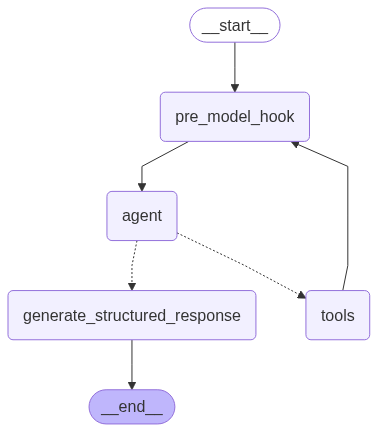
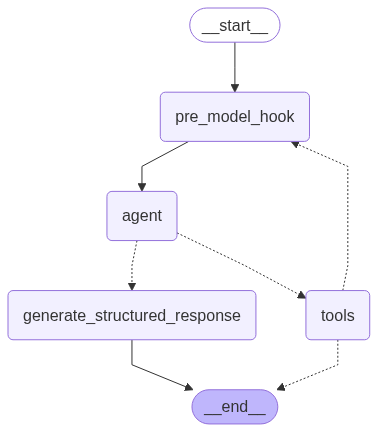
wip

Changed region(s): [[0.2328, 0.8426, 0.7566, 0.9931], [0.873, 0.8125, 0.9021, 0.8426]]

diff --git a/apps/cli-client/photos_drive/cli/commands/llms/trial_4.py b/apps/cli-client/photos_drive/cli/commands/llms/trial_4.py
@@ -1,3 +1,11 @@
+from photos_drive.cli.commands.llms.tools.find_similar_photos import (
+    FindSimilarPhotosInput,
+    FindSimilarPhotosTool,
+)
+from photos_drive.cli.commands.llms.tools.search_photos_by_text import (
+    SearchPhotosByTextToolInput,
+    SearchPhotosByTextTool,
+)
 from photos_drive.shared.config.config import Config
 from photos_drive.shared.llm.vector_stores.distributed_vector_store import (
     DistributedVectorStore,
@@ -11,7 +19,6 @@ from photos_drive.shared.metadata.mongodb.clients_repository_impl import (
 from photos_drive.shared.metadata.mongodb.media_items_repository_impl import (
     MediaItemsRepositoryImpl,
 )
-import json
 from langchain.agents import Tool
 from langchain_google_genai import ChatGoogleGenerativeAI
 from pydantic import BaseModel, Field
@@ -32,7 +39,7 @@ class ResponseFormatter(BaseModel):
 
     output: str = Field(description="The answer to the user's question")
     image_paths: list[str] = Field(
-        description="A list of file paths of images to display to the user"
+        description="A list of media item IDs in the form clientId:objectId to display to the user"
     )
 
 
@@ -52,42 +59,27 @@ def trial_4(config: Config):
         ]
     )
 
-    def search_photos_by_text_with_reranking(query: str, top_k=5):
-        print('search_photos_by_text_with_reranking:', query)
-        embedding = image_embedder.embed_texts([query])[0]
-        embeddings = vector_store.get_relevent_media_item_embeddings(embedding, k=top_k)
-        media_items = [
-            str(media_items_repo.get_media_item_by_id(embedding.media_item_id))
-            for embedding in embeddings
-        ]
-        print('results_data:', media_items)
-
-        return json.dumps(media_items)
-
-    def find_path_by_caption_snippet(caption: str) -> str:
-        print('find_path_by_caption_snippet:', caption)
-        embedding = image_embedder.embed_texts([caption])[0]
-        embeddings = vector_store.get_relevent_media_item_embeddings(embedding, k=1)
-        media_item = media_items_repo.get_media_item_by_id(embeddings[0].media_item_id)
-        print('results_data:', media_item)
-
-        return json.dumps(str(media_item))
+    search_by_text_tool = SearchPhotosByTextTool(
+        image_embedder, vector_store, media_items_repo
+    )
+    find_similar_photos_tool = FindSimilarPhotosTool(
+        image_embedder, vector_store, media_items_repo
+    )
 
     tools = [
         Tool(
             name="SearchPhotosByText",
-            func=search_photos_by_text_with_reranking,
-            description="Search for photos matching a natural language text query. "
-            + "Input: a text string describing what to find (e.g., "
-            + "'sunset in Santorini'). Returns a list of matching images with captions "
-            + "and file paths.",
+            func=search_by_text_tool.search_photos_by_text,
+            description=search_by_text_tool.get_prompt(),
+            args_schema=SearchPhotosByTextToolInput,
+            return_direct=True,
         ),
         Tool(
-            name="FindImageFilePathFromCaption",
-            func=find_path_by_caption_snippet,
-            description="Given a short description or snippet from a photo caption, "
-            + "returns the exact file path of the matching image. Useful for resolving "
-            + "vague references like 'pine tree photo' to a file path.",
+            name="FindSimilarPhotos",
+            func=find_similar_photos_tool.find_similar_photos,
+            description=find_similar_photos_tool.get_prompt(),
+            args_schema=FindSimilarPhotosInput,
+            return_direct=True,
         ),
     ]
 

diff --git a/apps/cli-client/photos_drive/cli/commands/llms/tools/media_item.py b/apps/cli-client/photos_drive/cli/commands/llms/tools/media_item.py
@@ -1,0 +1,75 @@
+from datetime import datetime
+from typing import Optional
+from photos_drive.shared.metadata import album_id
+from photos_drive.shared.metadata.media_item_id import media_item_id_to_string
+from photos_drive.shared.metadata.media_items import GpsLocation, MediaItem
+from pydantic import BaseModel, Field
+
+
+class GpsLocationModel(BaseModel):
+    '''Represents a Gps location for LLM model'''
+
+    latitude: float = Field(..., description="Latitude in degrees")
+    longitude: float = Field(..., description="Longitude in degrees")
+
+    class Config:
+        schema_extra = {"example": {"latitude": 37.7749, "longitude": -122.4194}}
+
+
+class MediaItemModel(BaseModel):
+    '''Represents a media item for LLM model'''
+
+    id: str = Field(..., description="ID of this media item")
+    file_name: str = Field(..., description="File name of the media item")
+    location: Optional[GpsLocationModel] = Field(
+        None, description="GPS location if available"
+    )
+    gphotos_client_id: str = Field(..., description="Google Photos client ID")
+    gphotos_media_item_id: str = Field(..., description="Google Photos media item ID")
+    album_id: str = Field(..., description="Album ID that this media item belongs to")
+    width: int = Field(..., description="Width of image/video in pixels")
+    height: int = Field(..., description="Height of image/video in pixels")
+    date_taken: datetime = Field(
+        ..., description="Timestamp when the image/video was taken"
+    )
+
+    class Config:
+        schema_extra = {
+            "example": {
+                "id": "client123:object456",
+                "file_name": "photo1.jpg",
+                "location": {"latitude": 37.7749, "longitude": -122.4194},
+                "gphotos_client_id": "client123",
+                "gphotos_media_item_id": "media789",
+                "album_id": "album101112",
+                "width": 4000,
+                "height": 3000,
+                "date_taken": "2023-07-01T15:30:00Z",
+            }
+        }
+
+
+def dataclass_to_pydantic_media_item(media_item_dc: MediaItem) -> MediaItemModel:
+    return MediaItemModel(
+        id=media_item_id_to_string(media_item_dc.id),
+        file_name=media_item_dc.file_name,
+        location=(
+            dataclass_to_pydantic_gps_location(media_item_dc.location)
+            if media_item_dc.location
+            else None
+        ),
+        gphotos_client_id=media_item_dc.gphotos_client_id,
+        gphotos_media_item_id=media_item_dc.gphotos_media_item_id,
+        album_id=album_id.album_id_to_string(media_item_dc.album_id),
+        width=media_item_dc.width,
+        height=media_item_dc.height,
+        date_taken=str(media_item_dc.date_taken),
+    )
+
+
+def dataclass_to_pydantic_gps_location(
+    gps_location_dc: GpsLocation,
+) -> GpsLocationModel:
+    return GpsLocationModel(
+        latitude=gps_location_dc.latitude, longitude=gps_location_dc.longitude
+    )

diff --git a/apps/cli-client/photos_drive/cli/commands/llms/tools/find_similar_photos.py b/apps/cli-client/photos_drive/cli/commands/llms/tools/find_similar_photos.py
@@ -1,0 +1,72 @@
+from typing import List, Optional
+from photos_drive.cli.commands.llms.tools.media_item import (
+    MediaItemModel,
+    dataclass_to_pydantic_media_item,
+)
+from pydantic import BaseModel, Field
+from photos_drive.shared.llm.models.image_embeddings import ImageEmbeddings
+from photos_drive.shared.llm.vector_stores.base_vector_store import BaseVectorStore
+from photos_drive.shared.metadata.media_item_id import (
+    parse_string_to_media_item_id,
+)
+from photos_drive.shared.metadata.media_items_repository import MediaItemsRepository
+
+DEFAULT_PROMPT = '''
+Searches your photo library using a natural language query. 
+Use this tool when the user describes a photo, scene, or moment in words 
+(e.g., "photos of sunsets at the beach" or "pictures with dogs").
+Returns the most visually relevant media items based on semantic similarity.
+'''
+
+
+class FindSimilarPhotosInput(BaseModel):
+    media_item_id: str = Field(
+        ..., description="Media item ID to find similar photos for"
+    )
+    top_k: Optional[int] = Field(5, description="Number of media items to retrieve")
+
+
+class FindSimilarPhotosOutput(BaseModel):
+    media_items: List[MediaItemModel] = Field(
+        ..., description="List of similar media items"
+    )
+
+
+class FindSimilarPhotosTool:
+    def __init__(
+        self,
+        image_embedder: ImageEmbeddings,
+        vector_store: BaseVectorStore,
+        media_items_repo: MediaItemsRepository,
+    ):
+        self.image_embedder = image_embedder
+        self.vector_store = vector_store
+        self.media_items_repo = media_items_repo
+
+    def get_prompt(self) -> str:
+        return DEFAULT_PROMPT
+
+    def find_similar_photos(
+        self, request: FindSimilarPhotosInput
+    ) -> FindSimilarPhotosOutput:
+        print('find_similar_photos:', request.media_item_id)
+
+        media_item = self.media_items_repo.get_media_item_by_id(
+            parse_string_to_media_item_id(request.media_item_id)
+        )
+        if not media_item.embedding_id:
+            return FindSimilarPhotosOutput(media_items=[])
+
+        embedding = self.vector_store.get_embedding_by_id(media_item.embedding_id)
+        embeddings = self.vector_store.get_relevent_media_item_embeddings(
+            embedding, k=request.top_k
+        )
+
+        return FindSimilarPhotosOutput(
+            media_items=[
+                dataclass_to_pydantic_media_item(
+                    self.media_items_repo.get_media_item_by_id(embedding.media_item_id)
+                )
+                for embedding in embeddings
+            ]
+        )

diff --git a/apps/cli-client/photos_drive/cli/commands/llms/tools/search_photos_by_text.py b/apps/cli-client/photos_drive/cli/commands/llms/tools/search_photos_by_text.py
@@ -1,0 +1,63 @@
+from typing import List, Optional
+from photos_drive.cli.commands.llms.tools.media_item import (
+    MediaItemModel,
+    dataclass_to_pydantic_media_item,
+)
+from pydantic import BaseModel, Field
+
+from photos_drive.shared.llm.models.image_embeddings import ImageEmbeddings
+from photos_drive.shared.llm.vector_stores.base_vector_store import BaseVectorStore
+from photos_drive.shared.metadata.media_items_repository import MediaItemsRepository
+
+DEFAULT_PROMPT = '''
+Use this tool to search for photos based on a natural language description.
+
+This tool is ideal when the user describes what they want to see in photos — 
+for example, "sunsets on the beach", "photos with dogs", or "Christmas morning".
+
+The tool embeds the user's text query and retrieves visually similar media items 
+from the photo library based on semantic similarity.
+'''
+
+
+class SearchPhotosByTextToolInput(BaseModel):
+    query: str = Field(..., description="A text string describing what to find")
+    top_k: Optional[int] = Field(5, description="Number of photos to retrieve")
+
+
+class SearchPhotosByTextToolOutput(BaseModel):
+    media_items: List[MediaItemModel] = Field(..., description="List of similar photos")
+
+
+class SearchPhotosByTextTool:
+    def __init__(
+        self,
+        image_embedder: ImageEmbeddings,
+        vector_store: BaseVectorStore,
+        media_items_repo: MediaItemsRepository,
+    ):
+        self.image_embedder = image_embedder
+        self.vector_store = vector_store
+        self.media_items_repo = media_items_repo
+
+    def get_prompt(self) -> str:
+        return DEFAULT_PROMPT
+
+    def search_photos_by_text(
+        self, request: SearchPhotosByTextToolInput
+    ) -> SearchPhotosByTextToolOutput:
+        print('search_photos_by_text:', request.query)
+
+        embedding = self.image_embedder.embed_texts([request.query])[0]
+        embeddings = self.vector_store.get_relevent_media_item_embeddings(
+            embedding, k=request.top_k
+        )
+
+        return SearchPhotosByTextToolOutput(
+            media_items=[
+                dataclass_to_pydantic_media_item(
+                    self.media_items_repo.get_media_item_by_id(embedding.media_item_id)
+                )
+                for embedding in embeddings
+            ]
+        )

diff --git a/apps/cli-client/photos_drive/shared/llm/vector_stores/mongo_db_vector_store.py b/apps/cli-client/photos_drive/shared/llm/vector_stores/mongo_db_vector_store.py
@@ -131,6 +131,24 @@ class MongoDbVectorStore(BaseVectorStore):
         self._collection.delete_many({"_id": {"$in": object_ids}})
 
     @override
+    def get_embedding_by_id(
+        self, embedding_id: MediaItemEmbeddingId
+    ) -> MediaItemEmbedding:
+        doc = self._collection.find_one(
+            {
+                "_id": embedding_id.vector_store_id,
+            }
+        )
+        if doc is None:
+            raise ValueError(f"Cannot find embedding for {embedding_id}")
+
+        return MediaItemEmbedding(
+            id=embedding_id,
+            embedding=self.__get_embedding_np_from_mongo(doc["embedding"]),
+            media_item_id=parse_string_to_media_item_id(doc.get("media_item_id")),
+        )
+
+    @override
     def get_relevent_media_item_embeddings(
         self, embedding: np.ndarray, k: int
     ) -> list[MediaItemEmbedding]:

diff --git a/apps/cli-client/photos_drive/shared/llm/vector_stores/distributed_vector_store.py b/apps/cli-client/photos_drive/shared/llm/vector_stores/distributed_vector_store.py
@@ -116,6 +116,17 @@ class DistributedVectorStore(BaseVectorStore):
         return top_docs
 
     @override
+    def get_embedding_by_id(
+        self, embedding_id: MediaItemEmbeddingId
+    ) -> MediaItemEmbedding:
+        for store in self.stores:
+            try:
+                return store.get_embedding_by_id(embedding_id)
+            except Exception:
+                pass
+        raise ValueError(f'Unable to find embedding {embedding_id}')
+
+    @override
     def delete_all_media_item_embeddings(self):
         for store in self.stores:
             store.delete_all_media_item_embeddings()

diff --git a/apps/cli-client/photos_drive/shared/llm/vector_stores/base_vector_store.py b/apps/cli-client/photos_drive/shared/llm/vector_stores/base_vector_store.py
@@ -135,6 +135,20 @@ class BaseVectorStore(ABC):
         '''
 
     @abstractmethod
+    def get_embedding_by_id(
+        self, embedding_id: MediaItemEmbeddingId
+    ) -> MediaItemEmbedding:
+        '''
+        Returns the embeddings from an embedding ID
+
+        Args:
+            embedding_id (MediaItemEmbeddingId): The embedding ID
+
+        Returns:
+            MediaItemEmbedding: the embedding
+        '''
+
+    @abstractmethod
     def delete_all_media_item_embeddings(self):
         '''
         Deletes all media item embeddings

diff --git a/apps/cli-client/photos_drive/cli/shared/logging.py b/apps/cli-client/photos_drive/cli/shared/logging.py
@@ -13,3 +13,6 @@ def setup_logging(is_verbose: bool):
         logging.basicConfig(stream=sys.stdout, level=logging.DEBUG)
     else:
         logging.basicConfig(stream=sys.stdout, level=logging.INFO)
+
+    # Suppress pymongo
+    logging.getLogger("pymongo").setLevel(logging.WARNING)
